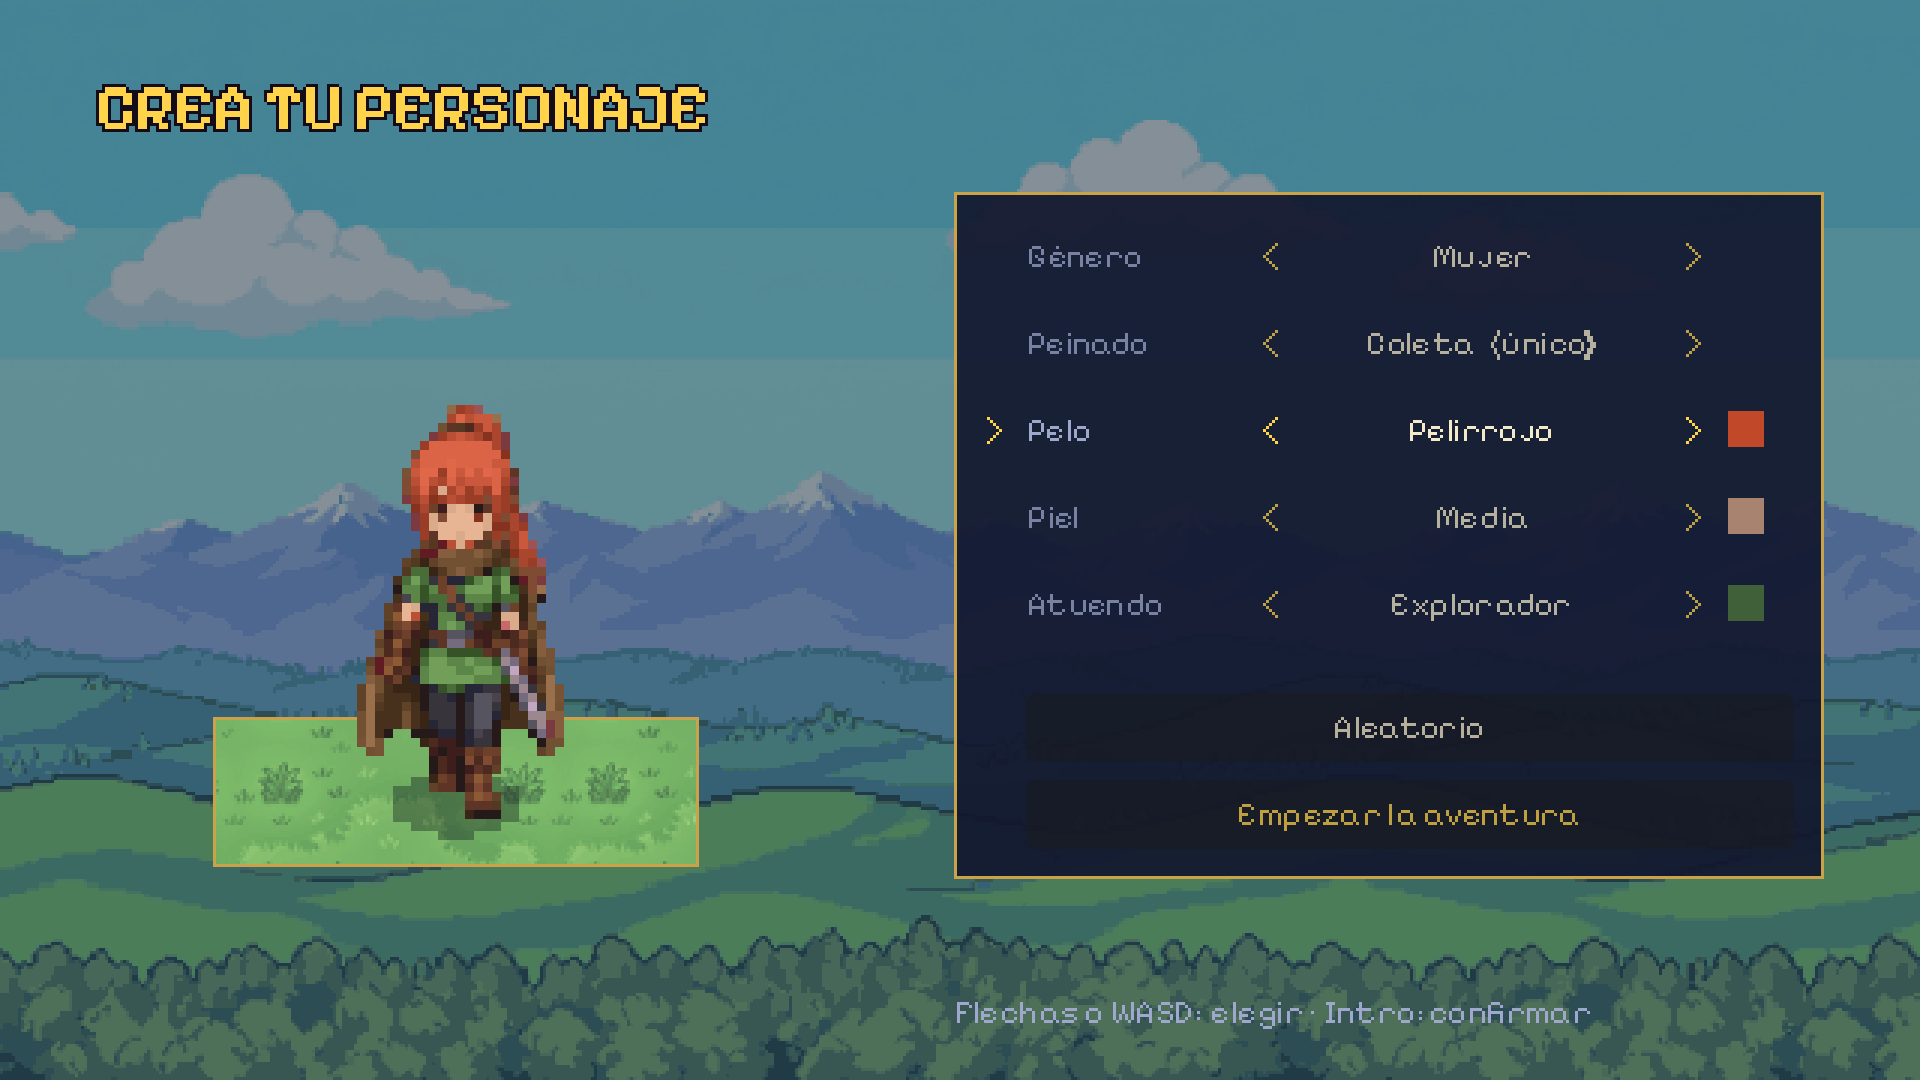
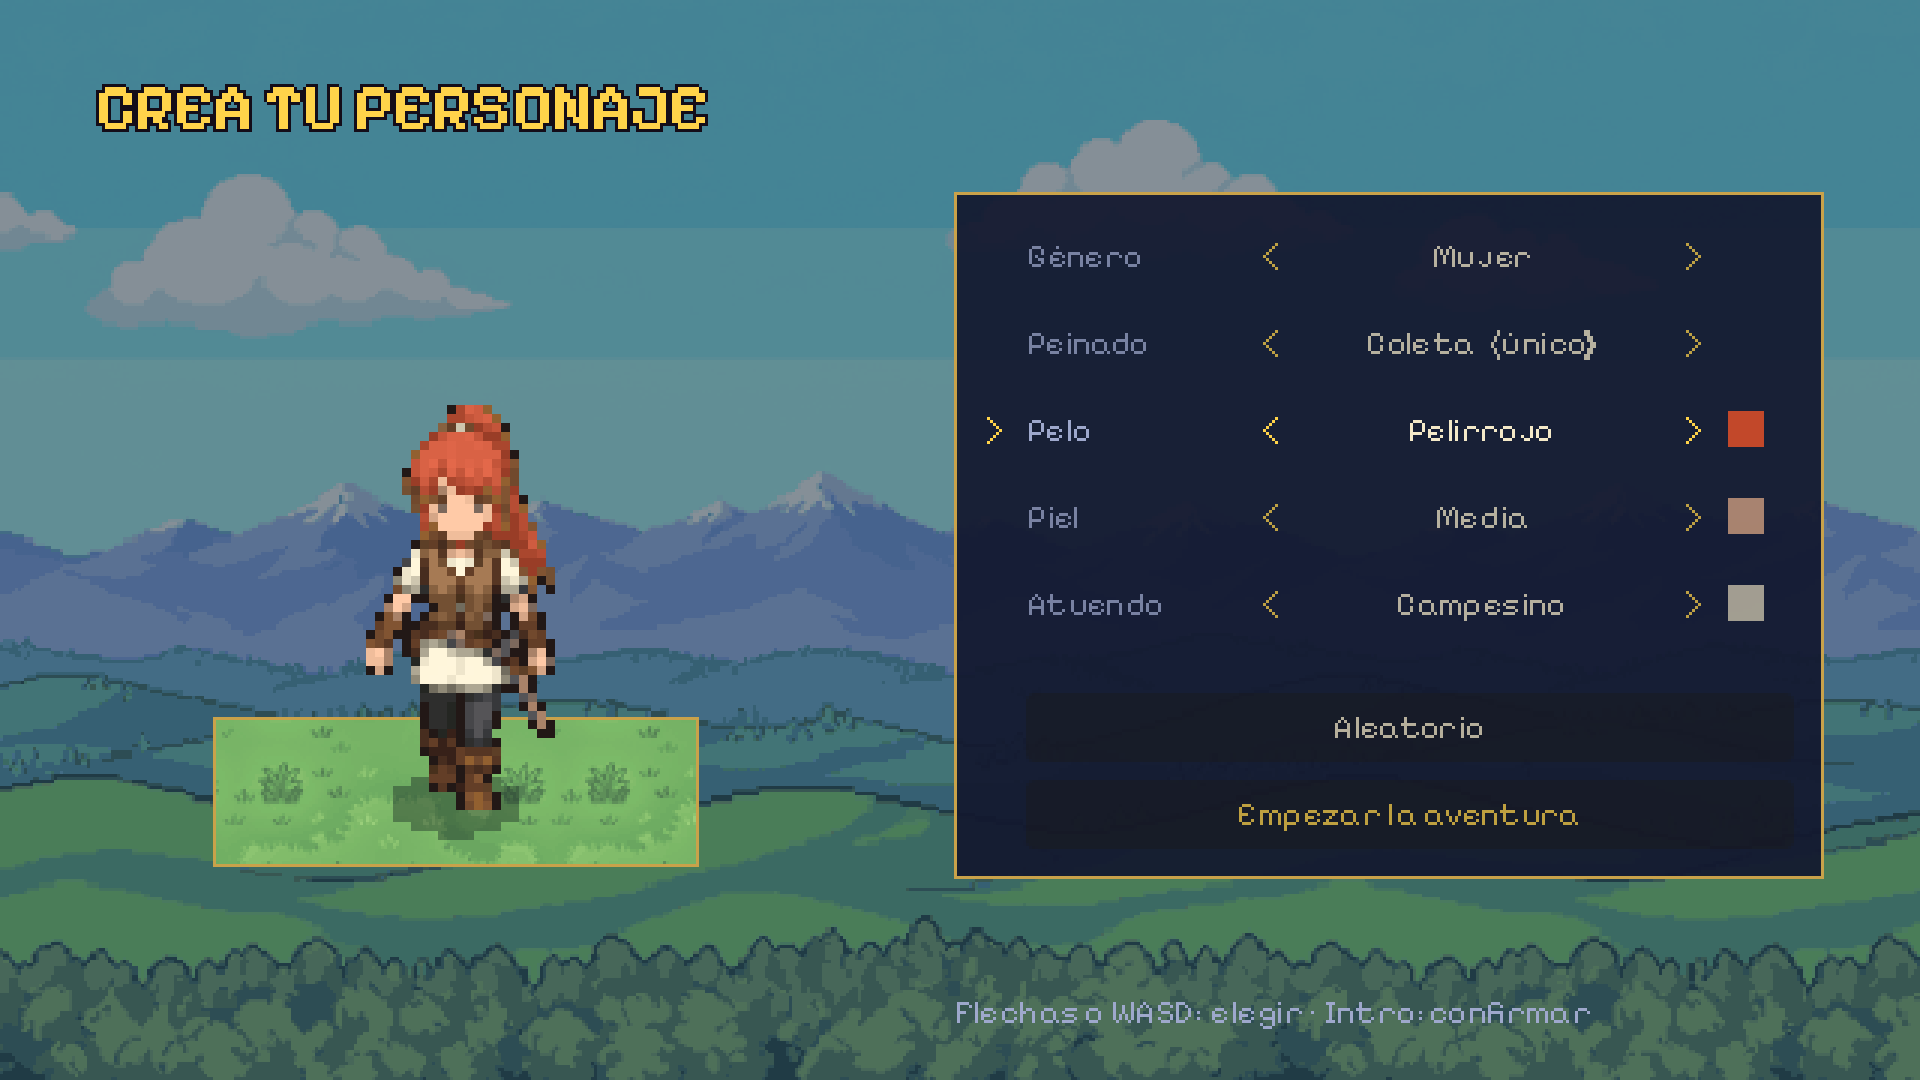
Protagonista sin capa: hojas nuevas de hombre y mujer con ropa de viajero
- El protagonista es un aventurero de rango cero que busca trabajo (GDD 7.1), no un héroe:
  túnica, chaleco de tela, cinturón con bolsa, brazales y botas; sin capa ni bufanda.
- Seis hojas nuevas de Figma AI (caminar, ataques y esquivas de cada género), procesadas con una
  receta común `traveller()`; se retiran las hojas antiguas con capa y las provisionales de la heroína.
- Grupos de color: pelo, piel, túnica y chaleco. Nueve atuendos de viajero en el creador.
- El pipeline convierte en contorno los bordes rosados que deja el fondo magenta.

Claude-Session: https://claude.ai/code/session_01CGB3MRBqj8DMSodyryv1gJ

Changed region(s): [[0.1875, 0.3667, 0.3125, 0.7639], [0.875, 0.5194, 0.9375, 0.5806], [0.7188, 0.55, 0.8125, 0.5806]]

diff --git a/tools/art_pipeline/build.py b/tools/art_pipeline/build.py
@@ -71,28 +71,13 @@ HERO_FRAME = (56, 56)
 HERO_ANCHOR = (28, 53)  # feet centre inside a frame
 
 
-def hero():
-    walk, act, extra = grid("hero_walk"), grid("hero_actions"), grid("hero_extra")
-    return hero_set("hero", (walk, act, extra), ((walk, 0, 0), (act, 1, 0), (extra, 3, 0)), {
-        "walk_down": (walk, 0, range(4)),
-        "walk_side": (walk, 1, range(4), True),
-        "walk_up": (act, 0, range(4)),
-        "attack_down": (act, 1, range(4)),
-        "attack_side": (act, 2, range(4)),
-        "attack_up": (act, 3, range(4)),
-        "dodge_down": (extra, 0, range(4)),
-        "dodge_side": (extra, 1, range(4)),
-        "dodge_up": (extra, 2, range(3)),
-        "misc": (extra, 3, range(4)),  # hurt front, hurt front (alt), knocked out, casting
-    })
-
-
-def heroine():
-    """The heroine of the character creator (art/ai/heroes): every row faces right where it is a side view.
-    ponytail: mujer_actions and mujer_extra are the 256 px previews (the Figma MCP daily limit); replace
-    them with the full 1024 px exports from the Figma file and rebuild."""
-    walk, act, extra = (grid(f"heroes/mujer_{n}") for n in ("walk", "actions", "extra"))
-    return hero_set("heroine", (walk, act, extra), ((walk, 0, 0), (act, 3, 3, extra), (extra, 3, 0)), {
+def traveller(name, prefix, flips=None):
+    """A player model of the character creator (art/ai/heroes/<prefix>_walk|actions|extra): a traveller
+    looking for work, no cape. Side views face right; `flips` maps an animation row to the columns drawn
+    facing left, which are mirrored."""
+    walk, act, extra = (grid(f"heroes/{prefix}_{n}") for n in ("walk", "actions", "extra"))
+    flips = flips or {}
+    layout = {
         "walk_down": (walk, 0, range(4)),
         "walk_side": (walk, 1, range(4)),
         "walk_up": (walk, 2, range(4)),
@@ -103,28 +88,38 @@ def heroine():
         "dodge_side": (extra, 1, range(4)),
         "dodge_up": (extra, 2, range(3)),
         "misc": (act, 3, range(4)),  # hurt front, hurt side, knocked out, casting
-    }, clean=True)
+    }
+    layout = {k: v + (flips[k],) if k in flips else v for k, v in layout.items()}
+    # the actions sheet has no plain standing pose: it is drawn at the size of the dodge sheet's
+    return hero_set(name, (walk, act, extra), ((walk, 3, 0), (act, 3, 0, extra), (extra, 3, 0)), layout, clean=True)
+
+
+def hero():
+    return traveller("hero", "hombre", {"attack_side": {2, 3}})
+
+
+def heroine():
+    return traveller("heroine", "mujer", {"walk_side": {0}})
 
 
 # Colour groups of the character creator (scripts/systems/hero_look.gd): each set says which
-# palette colours are hair, skin, clothes and cape, by hue (degrees), saturation and value ranges.
+# palette colours are hair, skin, clothes (tunic) and vest, by hue (degrees), saturation and value ranges.
 # "top" groups only count in the upper part of an upright figure (the hero's hair and tunic share a blue).
 LOOK_GROUPS = {
     "hero": [
-        ("hair", (200, 245), (0.4, 1), (0, 1), 0.38),
-        ("clothes", (200, 245), (0.4, 1), (0, 1), None),
-        ("cape", (320, 350), (0.55, 1), (0, 1), None),
-        ("skin", (8, 30), (0.2, 0.42), (0.6, 1), None),
+        ("hair", (220, 242), (0.45, 1), (0.25, 1), None),
+        ("clothes", (95, 130), (0.25, 1), (0.18, 1), None),
+        ("vest", (345, 360), (0.55, 1), (0.25, 1), None),
+        ("skin", (15, 26), (0.2, 0.45), (0.6, 1), None),
     ],
     "heroine": [
-        ("hair", (28, 56), (0.3, 1), (0.55, 1), None),
-        ("hair", (24, 28), (0.6, 1), (0.5, 1), 0.45),
-        ("clothes", (205, 235), (0.45, 1), (0, 1), None),
-        ("cape", (320, 350), (0.6, 1), (0, 1), None),
-        ("skin", (8, 25), (0.2, 0.5), (0.6, 1), None),
+        ("hair", (30, 46), (0.6, 1), (0.58, 1), None),
+        ("clothes", (95, 130), (0.25, 1), (0.18, 1), None),
+        ("vest", (345, 360), (0.55, 1), (0.25, 1), None),
+        ("skin", (15, 26), (0.2, 0.45), (0.6, 1), None),
     ],
 }
-LOOK_IDS = {"hair": 1, "skin": 2, "clothes": 3, "cape": 4}
+LOOK_IDS = {"hair": 1, "skin": 2, "clothes": 3, "vest": 4}
 
 
 def look_mask(sheet, rules, frame):
@@ -179,9 +174,13 @@ def hero_set(name, sources, standing, layout, clean=False):
                 a = np.asarray(im).copy()
                 rgb = a[..., :3].astype(int)
                 spill = (rgb[..., 0] > rgb[..., 1] * 1.6) & (rgb[..., 2] > rgb[..., 1] * 1.6) & (rgb[..., 2] > rgb[..., 0] * 0.75)
-                a[spill & (a[..., 3] > 0), :3] = (38, 26, 24)
+                # pinkish blends of backdrop and drawing on the silhouette edge become outline too
+                solid = a[..., 3] > 0
+                edge = solid & ~(np.roll(solid, 1, 0) & np.roll(solid, -1, 0) & np.roll(solid, 1, 1) & np.roll(solid, -1, 1))
+                spill |= edge & (rgb[..., 2] > rgb[..., 1] * 1.1) & (rgb[..., 0] > rgb[..., 1] * 1.3)
+                a[spill & solid, :3] = (38, 26, 24)
                 im = Image.fromarray(a, "RGBA")
-            out.append(sheets.mirror(im) if flip else im)
+            out.append(sheets.mirror(im) if flip is True or (flip and c in flip) else im)
         return out
 
     rows = {key: frames(*spec) for key, spec in layout.items()}

diff --git a/art/FUENTES.md b/art/FUENTES.md
@@ -145,22 +145,25 @@ dibujo base cuando no es hacia la cámara.
 | `lamp` | e, sw | Pieza doble (dos faroles en un recorte), vistas desde arriba y detalles sueltos |
 | `low_wall`, `chimney`, `bread_stool`, `bucket` | — | Pendientes: el muro bajo en diagonal no encaja con la cámara fija; los demás no aportan vistas nuevas útiles |
 
-## Heroína del creador de personaje (art/ai/heroes)
+## Protagonistas del creador de personaje (art/ai/heroes)
 
-Hechas con Figma AI (`gemini-3.1-flash-image`) el 23 de octubre de 2026, en el archivo «Brumaclara —
-Arte del juego (vistas y personaje)». La descripción fija se repite en cada hoja:
+Hechas con Figma AI (`gemini-3.1-flash-image`) el 24 de octubre de 2026, en el archivo «Brumaclara —
+Arte del juego (vistas y personaje)» (nodos 4:2 a 9:2). Sustituyen a las del héroe y la heroína con capa
+(del 18 y 23 de octubre), que se retiraron: el protagonista es un viajero que busca trabajo, no un héroe.
+La descripción fija de cada hoja (la de la mujer cambia el pelo por *«long straight golden-blonde hair
+tied in a high ponytail with a short fringe»* y los pantalones por *leggings*):
 
-> The same heroine in every cell: young anime adventurer girl, long straight golden-blonde hair tied in a
-> high ponytail with a short fringe, dark crimson scarf wrapped around the neck, crimson cape reaching
-> the knees, blue short-sleeved tunic, brown leather bracers, brown leather strap diagonally across the
-> chest, brown belt with a small silver buckle, dark grey leggings, brown leather boots, a steel short
-> sword with a brown grip. About 2.5 heads tall, full body.
+> The same young man in every cell: an ordinary young traveller looking for work, not a hero; spiky swept
+> royal-blue hair with a long fringe, a forest-green short-sleeved tunic, a sleeveless crimson-red cloth
+> vest worn over the tunic and laced at the front, brown leather bracers, brown leather belt with a small
+> pouch, dark grey trousers, brown leather boots, a plain steel short sword with a brown grip on his hip.
+> NO cape, NO cloak, NO scarf: his back shows the vest and tunic. About 2.5 heads tall, full body.
 
 | Archivo | Contenido | Notas de revisión |
 |---|---|---|
-| `mujer_walk.png` | Caminar de frente, de lado (a la derecha) y de espaldas; quieta en 4 direcciones. | A tamaño completo. Todo aprovechable. |
-| `mujer_actions.png` | Ataque de frente, de lado y de espaldas; daño, daño de lado, derrota y hechizo. | **Provisional:** es la miniatura de 256 px ampliada (se alcanzó el límite diario de Figma). |
-| `mujer_extra.png` | Esquiva de frente, de lado y de espaldas; reposo. | **Provisional**, como la anterior. |
+| `hombre_walk.png`, `mujer_walk.png` | Caminar de frente, de lado (a la derecha) y de espaldas; quieto en 4 direcciones. | El 1.er paso lateral de la mujer mira a la izquierda: se refleja. |
+| `hombre_actions.png`, `mujer_actions.png` | Ataque de frente, de lado y de espaldas; daño, daño de lado, derrota y hechizo. | Los dos últimos fotogramas del ataque lateral del hombre miran a la izquierda: se reflejan. |
+| `hombre_extra.png`, `mujer_extra.png` | Esquiva de frente, de lado y de espaldas; quieto en 4 direcciones. | Todo aprovechable. |
 
 ## Variantes de color (receta `recolors`)
 

diff --git a/docs/creador_personaje.md b/docs/creador_personaje.md
@@ -1,6 +1,8 @@
 # Creador de personaje
 
-Es la primera pantalla del juego (`scenes/ui/character_creator.tscn`). Se elige:
+Es la primera pantalla del juego (`scenes/ui/character_creator.tscn`). El protagonista es un viajero
+que llega a Brumaclara buscando trabajo, no un héroe elegido (GDD 7.1), así que viste ropa de viaje:
+túnica, chaleco de tela, cinturón con bolsa, brazales y botas. Sin capa ni bufanda. Se elige:
 
 | Opción | Qué cambia |
 |---|---|
@@ -8,7 +10,7 @@ Es la primera pantalla del juego (`scenes/ui/character_creator.tscn`). Se elige:
 | Peinado | Los peinados dibujados para ese género (de momento uno por género: puntas y coleta) |
 | Pelo | 10 colores (el original, negro, castaño, rubio, pelirrojo, blanco, azul, rosa, verde y morado) |
 | Piel | 5 tonos (el original, clara, media, morena y oscura) |
-| Atuendo | 8 combinaciones de colores para la túnica y la capa con la bufanda |
+| Atuendo | 9 combinaciones de colores para la túnica y el chaleco (Viajero, Campesino, Leñador, Marinero, Herrero, Mercader, Brasa, Bruma y Noche) |
 
 Flechas o WASD para elegir, Intro para confirmar. También se puede usar el ratón. «Aleatorio» sortea
 un aspecto. Al empezar se guarda en `user://personaje.json` y el juego lo usa en todos los niveles.
@@ -21,7 +23,7 @@ un aspecto. Al empezar se guarda en `user://personaje.json` y el juego lo usa en
   con `<set>_frames.tres`, con las mismas animaciones. Están en la lista `MODELS` de
   `scripts/systems/hero_look.gd`.
 - **Colores.** `tools/art_pipeline/build.py` guarda junto a cada juego una máscara (`<set>_mask.png`)
-  que dice qué píxeles son pelo, piel, ropa o capa (tabla `LOOK_GROUPS`). Al cargar, `HeroLook` pinta
+  que dice qué píxeles son pelo, piel, túnica o chaleco (tabla `LOOK_GROUPS`). Al cargar, `HeroLook` pinta
   cada grupo con el color elegido y conserva el sombreado del dibujo.
 
 ## Añadir un peinado o un atuendo dibujado
@@ -33,8 +35,10 @@ un aspecto. Al empezar se guarda en `user://personaje.json` y el juego lo usa en
 
 ## Pendiente
 
-Las hojas de ataque y esquiva de la heroína salen de las miniaturas de 256 px de Figma, porque se
-alcanzó el límite diario de llamadas de Figma antes de descargarlas a tamaño completo. Funcionan, pero
-están algo más borrosas y son algo más grandes que las de caminar. Cuando estén las hojas grandes
-(nodos 2:2 y 3:2 del archivo «Brumaclara — Arte del juego (vistas y personaje)»), se sustituyen
-`art/ai/heroes/mujer_actions.png` y `mujer_extra.png` y se ejecuta `build.py heroine`.
+- **Más peinados.** Cada peinado es un juego completo de tres hojas. El siguiente previsto es un hombre
+  con pelo corto rubio. Los créditos de IA de Figma del plan Starter se agotaron el 24 de octubre de 2026
+  y vuelven el 1 de noviembre. Canva sabe editar una hoja existente cambiando solo el peinado
+  (`generate-image` con la hoja como referencia), pero la imagen a tamaño completo solo se puede bajar
+  exportando un diseño de Canva.
+- **Espadas finas.** En algunos fotogramas de ataque la hoja de la espada queda muy fina al reducirla al
+  píxel del juego.

diff --git a/README.md b/README.md
@@ -139,7 +139,8 @@ xvfb-run godot --path . --script res://tools/capture/screenshot_tour.gd   # capt
 - [x] Pueblo de Brumaclara: barrios, edificios de los gremios y primeros habitantes
 - [x] Modo edición para decorar los niveles dentro del juego
 - [x] Creador de personaje (hombre y mujer, colores de pelo, piel y atuendo)
-- [ ] Más peinados y atuendos dibujados; hojas definitivas de ataque y esquiva de la heroína
+- [x] Protagonista sin capa (viajero que busca trabajo), hombre y mujer con hojas completas
+- [ ] Más peinados dibujados
 - [ ] Interiores, caja de diálogo y minimapa
 - [ ] Árbol de habilidades, equipo, diálogos y misiones
 
